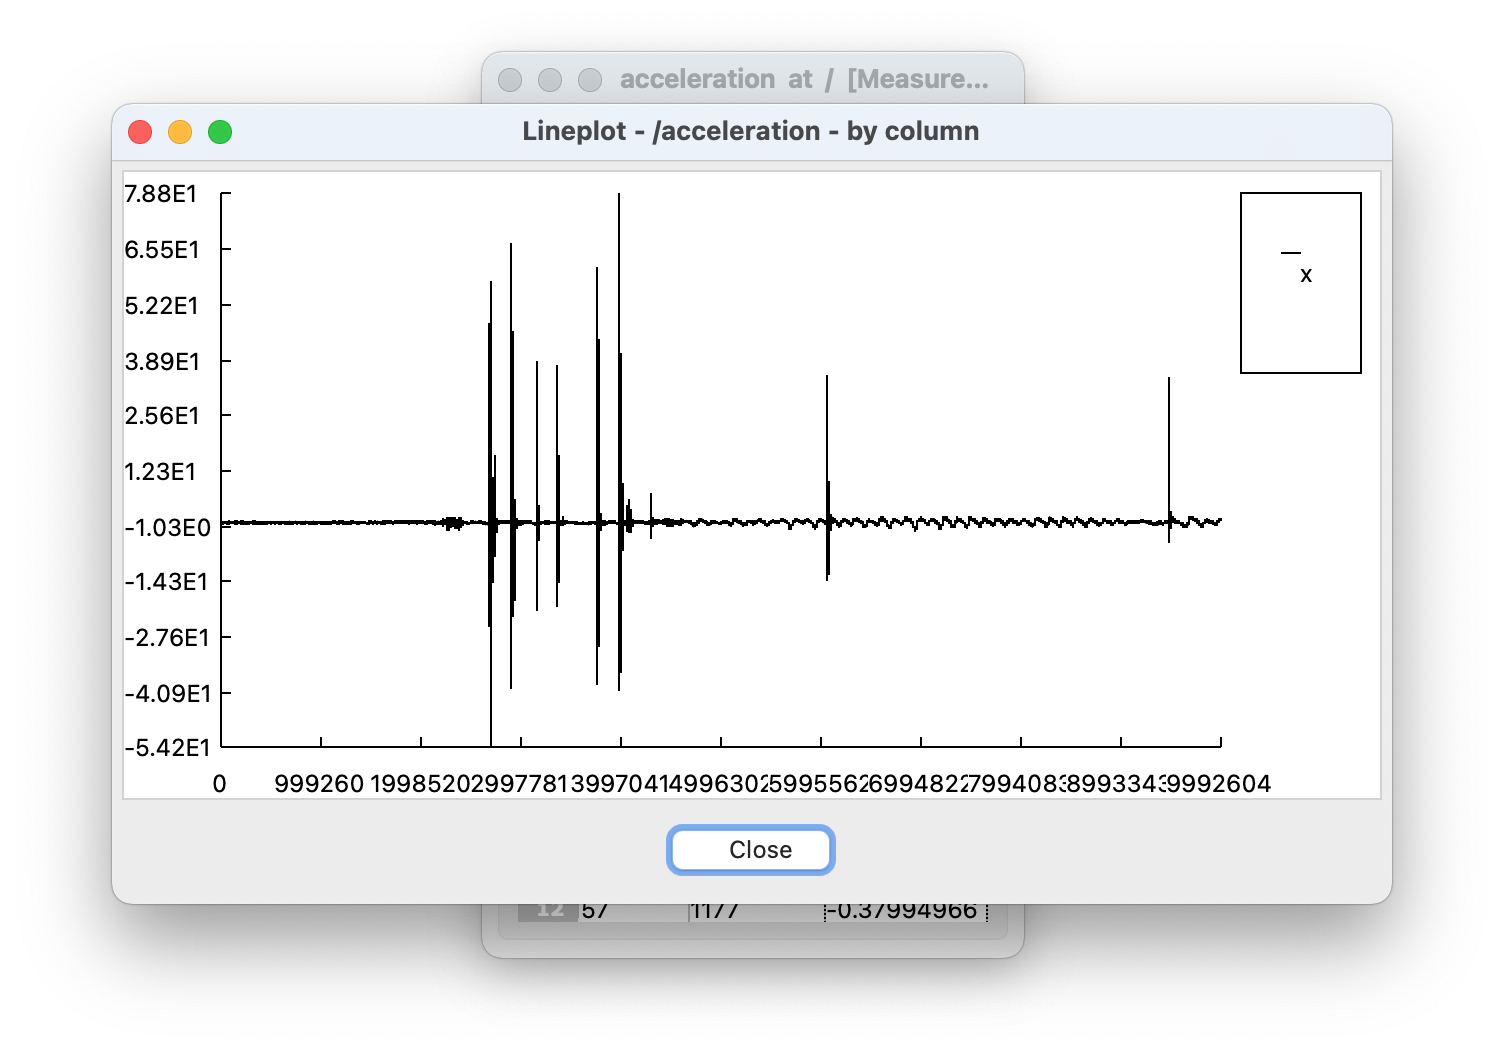
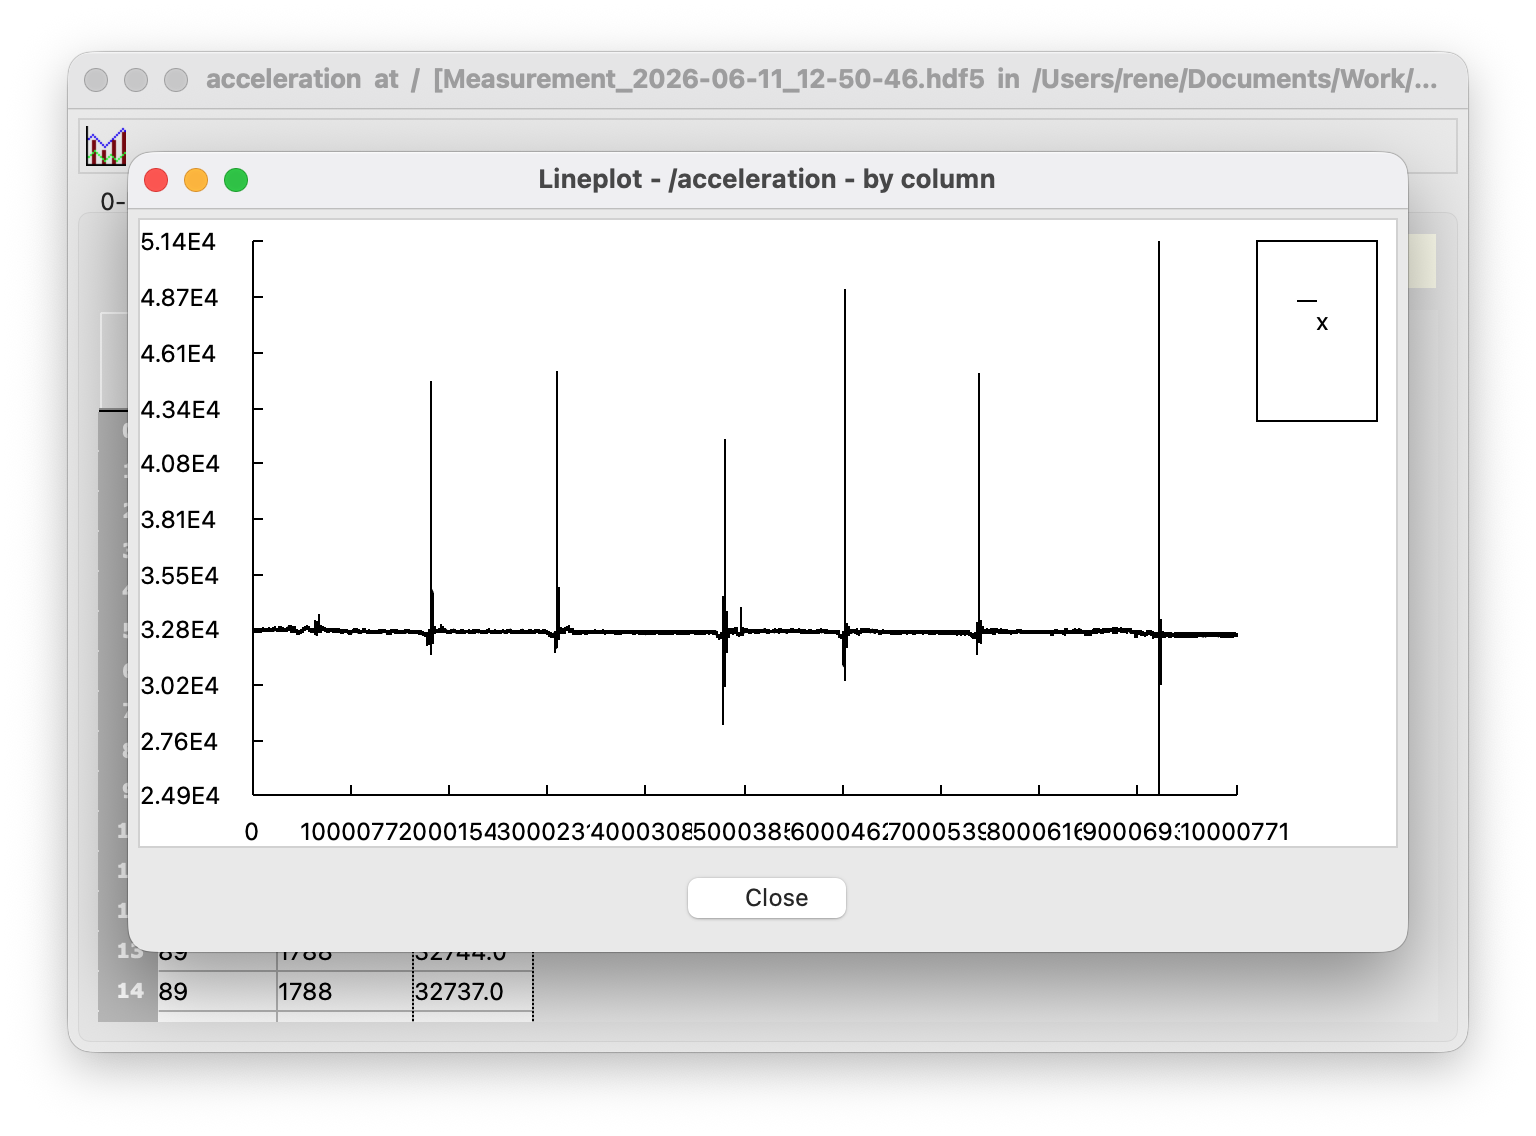
Documentation: Remove data about conversion to g

Changed region(s): [[0.0312, 0.0304, 0.9688, 0.943]]

diff --git a/icotronic/measurement/storage.py b/icotronic/measurement/storage.py
@@ -247,7 +247,7 @@ class StorageData:
                 description=create_acceleration_description(
                     attributes={axis: Float32Col() for axis in self.axes}
                 ),
-                title="STH Acceleration Data",
+                title="Sensor Node Data",
             )
         else:
             try:

diff --git a/Documentation/Sphinx/data-collection.md b/Documentation/Sphinx/data-collection.md
@@ -76,11 +76,11 @@ By default measurement files will be stored in the current working directory wit
 
 ## Measurement Data
 
-> **Note:** ICOn **assumes** that the sensor node always measures **acceleration data** in multiples of the [gravity of earth](https://en.wikipedia.org/wiki/Gravity_of_Earth), commonly referred as $g$ or $g_0$. While this is true for most of the sensor hardware (such as STHs), some sensor nodes measure other values, e.g. force or temperature. Even in this case the measurement software will (incorrectly) [convert the data into multiples of $g$](https://github.com/MyTooliT/ICOtronic/blob/dc636ce2cda8f380aa0f031fc743062820eb3443/mytoolit/measurement/acceleration.py#L50-L51). We are **working on adding support for configuring the sensor type** in the firmware and the ICOtronic package to **fix this issue**.
-
 To take a look at the measurement data you can use the tool [HDFView][].
 
-> **Note:** Unfortunately you need to create a free account to download the program. If you do not want to register, then you can try if [one of the accounts listed at BugMeNot](http://bugmenot.com/view/hdfgroup.org) works. Another option is to download the application from [here](https://support.hdfgroup.org/ftp/HDF5/releases/HDF-JAVA/). Just click on the folder for the latest version of the application (`hdfview-…`) and afterwards on the folder `bin` to see a list of compressed binaries (`.zip` & `.tar.gz`) for the different supported operating systems.
+```{note}
+Unfortunately you need to create a free account to download the program. If you do not want to register, then you can try if [one of the accounts listed at BugMeNot](http://bugmenot.com/view/hdfgroup.org) works. Another option is to download the application from [here](https://support.hdfgroup.org/ftp/HDF5/releases/HDF-JAVA/). Just click on the folder for the latest version of the application (`hdfview-…`) and afterwards on the folder `bin` to see a list of compressed binaries (`.zip` & `.tar.gz`) for the different supported operating systems.
+```
 
 [hdfview]: https://www.hdfgroup.org/downloads/hdfview/
 
@@ -88,12 +88,18 @@ The screenshot below shows a measurement file produced by the ICOtronic library:
 
 ![Main Window of HDFView](Pictures/HDFView-File.png)
 
-As you can see the table with the name `acceleration` stores the acceleration data. The screenshot above displays the metadata of the table. The most important meta attributes here are probably:
+As you can see the table with the name `acceleration` stores the sensor data.
+
+```{note}
+The table is named “acceleration” mainly for historic reasons. While the main purpose of most sensor nodes is still collecting data using acceleration sensors, the table might also store other data such as temperature or force.
+```
+
+The screenshot above displays the metadata of the table. The most important meta attributes here are probably:
 
 - `Start_Time`, which contains the start time of the measurement run in ISO format, and
-- `Sensor_Range`, which specifies the range of the used acceleration sensor in multiples of earth’s gravitation (g₀ ≅ 9.81 m/s²).
+- `Sample_Rate`, which specifies the (theoretical) number of samples taken per second.
 
-After you double click on the acceleration table on the left, HDFView will show you the actual acceleration data:
+After you double click on the acceleration table on the left, HDFView will show you the actual sensor data:
 
 ```{image} Pictures/HDFView-Table.png
 :alt: Acceleration Table in HDFView
@@ -101,17 +107,17 @@ After you double click on the acceleration table on the left, HDFView will show 
 :align: center
 ```
 
-As you can infer from the `x` column above the table shows the acceleration measurement data (in multiples of g₀) for a single axis. The table below describes the meaning of the columns:
+As you can infer from the `x` column above the table shows sensor data (as a 16 bit ADC value) for a single axis. The table below describes the meaning of the columns:
 
-| Column    | Description                                                                              | Unit             |
-| --------- | ---------------------------------------------------------------------------------------- | ---------------- |
-| counter   | A cyclic counter value (0–255) sent with the acceleration data to recognize lost packets | –                |
-| timestamp | The timestamp for the measured value in microseconds since the measurement start         | μs               |
-| x         | Acceleration in the x direction as multiples of earth’s gravitation                      | g₀ (≅ 9.81 m/s²) |
+| Column    | Description                                                                      | Range     | Unit |
+| --------- | -------------------------------------------------------------------------------- | --------- | ---- |
+| counter   | A cyclic counter value sent with the acceleration data to recognize lost packets | 0 – 255   | –    |
+| timestamp | The timestamp for the measured value in microseconds since the measurement start | 0 – 2⁶⁴-1 | μs   |
+| x         | 16 Bit ADC sensor value                                                          | 0 – 2¹⁶-1 | –    |
 
 Depending on your sensor and your settings the table might also contain columns for the `y` and/or `z` axis.
 
-If you want you can also use HDFView to print a simple graph for your acceleration data. To do that:
+If you want you can also use HDFView to print a simple graph for your data. To do that:
 
 1. Select the values for the the ordinate (e.g. click on the x column to select all acceleration data for the x axis)
 2. Click on the graph icon in the top left corner